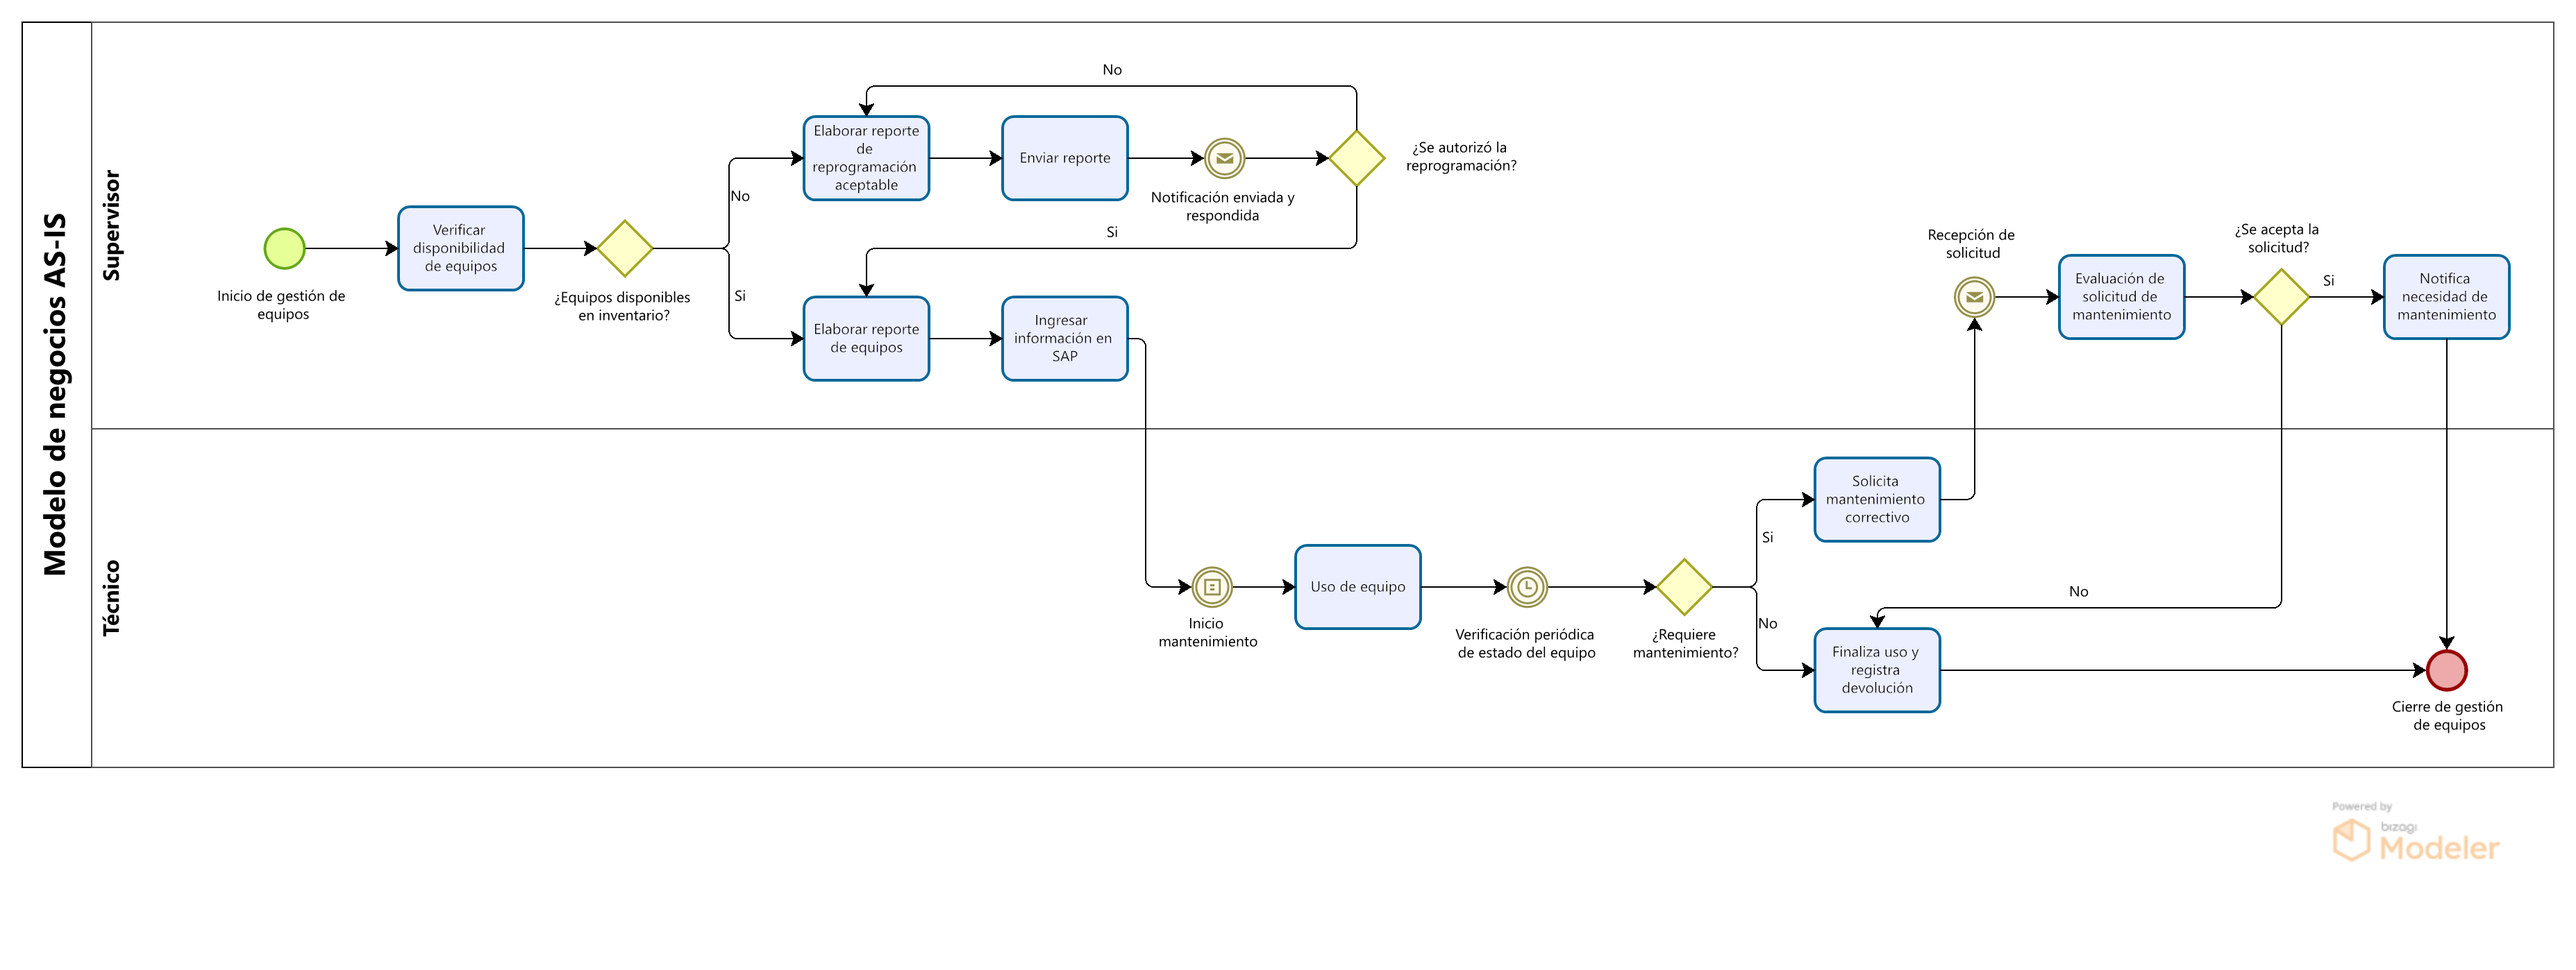
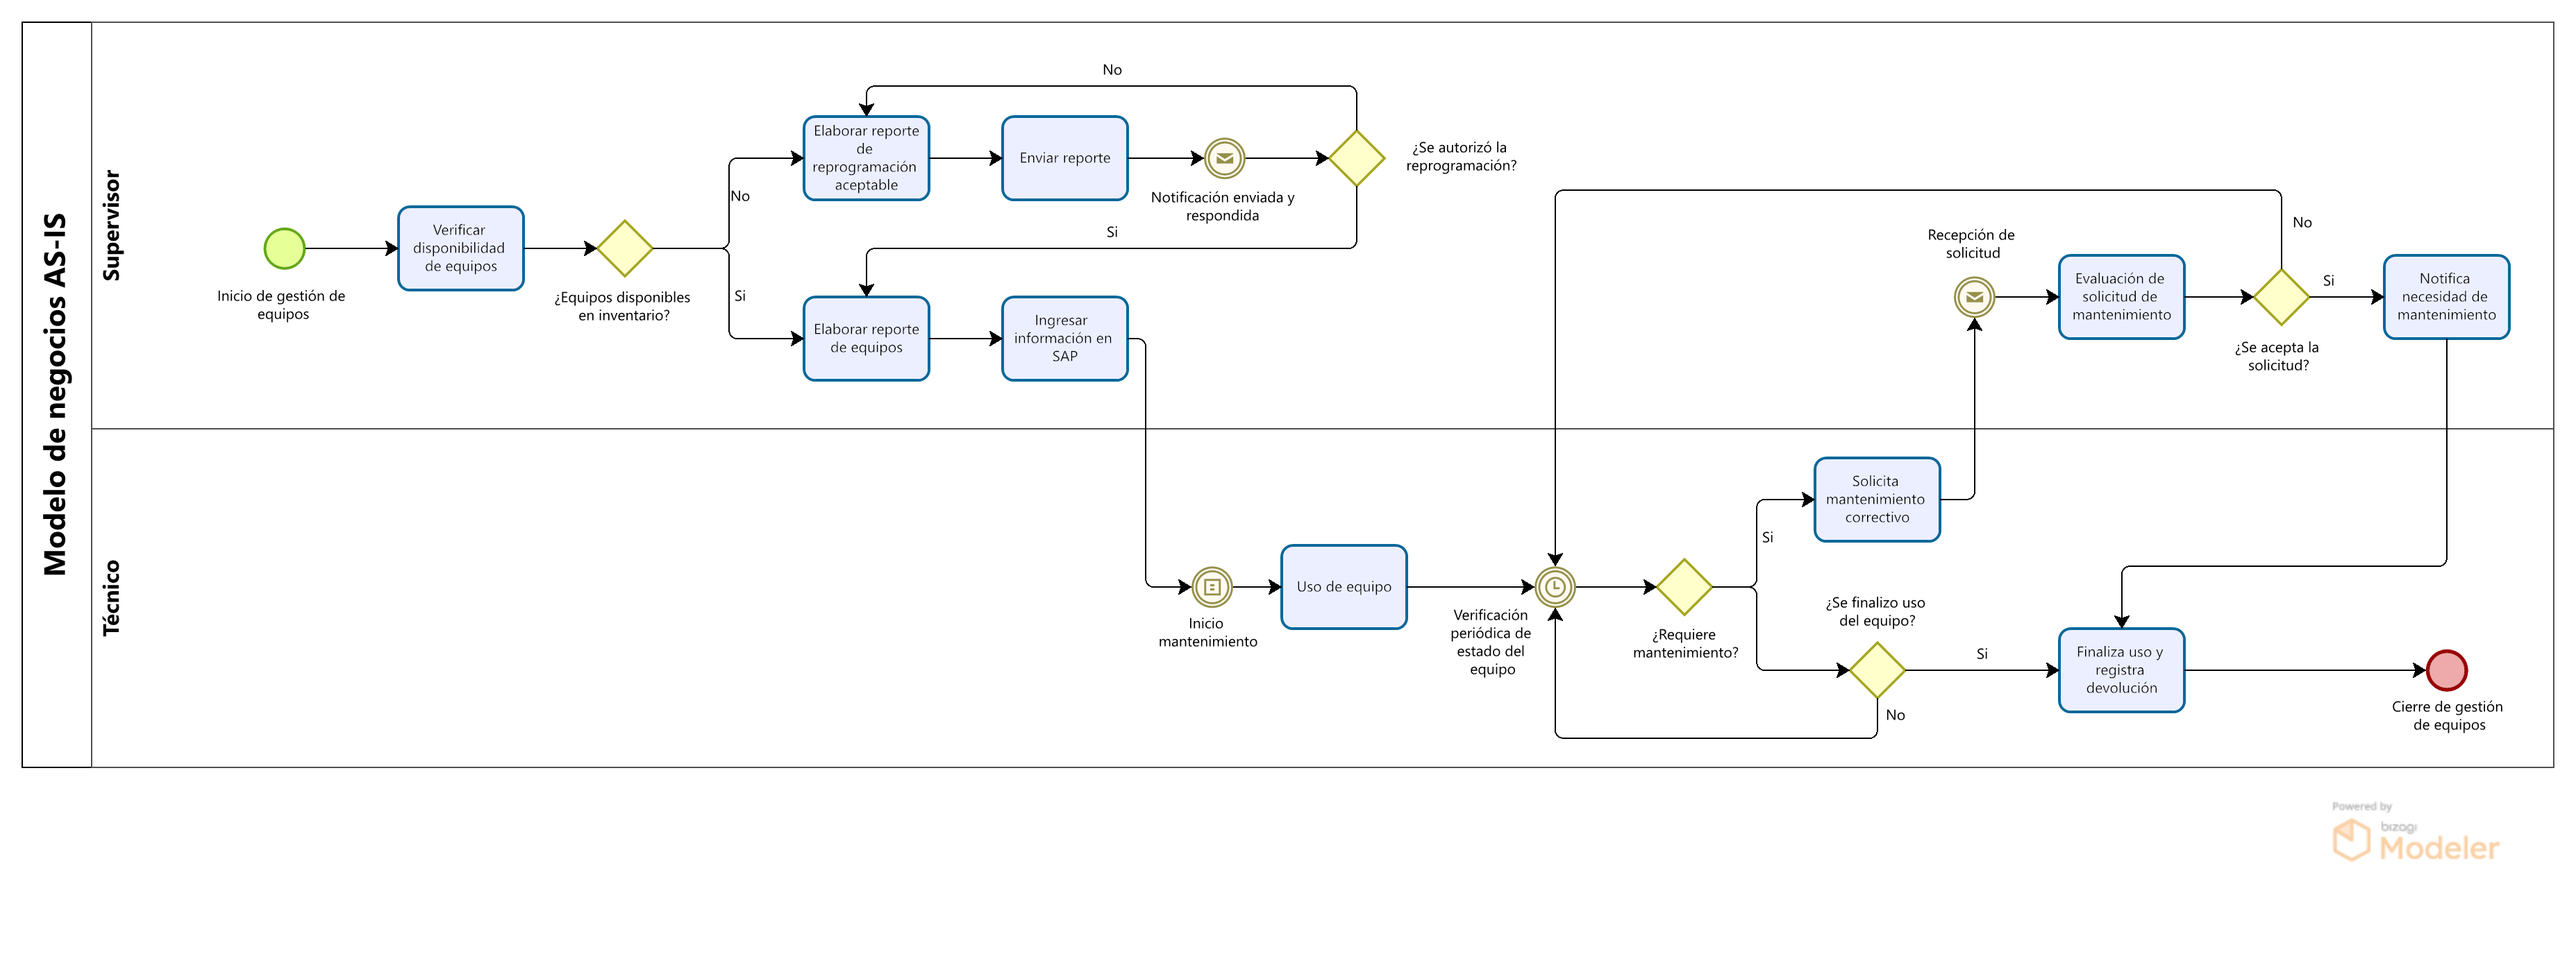
algo

diff --git a/2/2.1/2.1.md b/2/2.1/2.1.md
@@ -459,7 +459,7 @@
       <td>2</td>
       <td>¿Equipos disponibles en inventario?</td>
       <td>Condicional</td>
-      <td>Si los equipos estan disponibles, se procede; si no, se elabora un reporte.</td>
+      <td>Si los equipos estan disponibles, se procede; si no, se elabora un reporte de reprogramación del matenimiento.</td>
       <td>Supervisor</td>
     </tr>
     <tr>
@@ -477,98 +477,112 @@
       <td>Supervisor</td>
     </tr>
     <tr>
+    <tr>
       <td>5</td>
+      <td>Notificación enviada y respondida</td>
+      <td>Evento</td>
+      <td>El supervisor recibe la respuesta de la solicitud de reprogramación.</td>
+      <td>Supervisor</td>
+    </tr>
+      <td>6</td>
       <td>¿Se autoriza la reprogramación?</td>
       <td>Condicional</td>
       <td>Se decide si la reprogramación es autorizada.</td>
       <td>Directiva</td>
     </tr>
     <tr>
-      <td>6</td>
+      <td>7</td>
       <td>Elaborar reporte de equipos</td>
       <td>Actividad</td>
       <td>El supervisor elabora un reporte con los equipos disponibles.</td>
       <td>Supervisor</td>
     </tr>
     <tr>
-      <td>7</td>
+      <td>8</td>
       <td>Ingresar información en SAP</td>
       <td>Actividad</td>
       <td>El supervisor ingresa la información en el sistema SAP para registro.</td>
       <td>Supervisor</td>
     </tr>
     <tr>
-      <td>8</td>
+      <td>9</td>
       <td>Inicio de mantenimiento programado</td>
       <td>Evento</td>
       <td>El supervisor notifica que el mantenimiento ha iniciado.</td>
       <td>---</td>
     </tr>
     <tr>
-      <td>9</td>
+      <td>10</td>
       <td>Uso de equipo</td>
       <td>Actividad</td>
       <td>El técnico utiliza el equipo en la tarea asignada.</td>
       <td>Técnico</td>
     </tr>
     <tr>
-      <td>10</td>
+      <td>11</td>
       <td>Verificación periódica de estado de equipo</td>
       <td>Evento</td>
       <td>Se realiza una verificación periódica del estado del equipo durante su uso.</td>
       <td>Supervisor</td>
     </tr>
     <tr>
-      <td>11</td>
+      <td>12</td>
       <td>¿Requiere mantenimiento?</td>
       <td>Condicional</td>
-      <td>Se evalúa si el equipo requiere mantenimiento adicional.</td>
-      <td>Técnico</td>
-    </tr>
-    <tr>
-      <td>12</td>
-      <td>Solicitar mantenimiento correctivo</td>
-      <td>Actividad</td>
-      <td>Si es necesario, el técnico solicita mantenimiento correctivo.</td>
+      <td>Se verifica si necesita o no un mantemiento</td>
       <td>Técnico</td>
     </tr>
     <tr>
       <td>13</td>
+      <td>Solicitar mantenimiento correctivo</td>
+      <td>Actividad</td>
+      <td>El técnico solicita un mantenimiento correctivo para el equipo.</td>
+      <td>Técnico</td>
+    </tr>
+    <tr>
+      <td>14</td>
       <td>Recepción de solicitud</td>
       <td>Evento</td>
       <td>El supervisor recibe la solicitud de mantenimiento correctivo.</td>
       <td>Supervisor</td>
     </tr>
     <tr>
-      <td>14</td>
+      <td>15</td>
       <td>Evaluación de solicitud de mantenimiento</td>
       <td>Actividad</td>
-      <td>El supervisor evalúa la solicitud enviada por el técnico.</td>
+      <td>El supervisor evalúa si es necesario el mantenimiento al equipo.</td>
       <td>Supervisor</td>
     </tr>
     <tr>
-      <td>15</td>
+      <td>16</td>
       <td>¿Se acepta la solicitud?</td>
       <td>Condicional</td>
       <td>Se decide si la solicitud de mantenimiento es aceptada.</td>
       <td>Supervisor</td>
     </tr>
     <tr>
-      <td>16</td>
+      <td>17</td>
       <td>Notificar necesidad de mantenimiento</td>
       <td>Actividad</td>
       <td>El supervisor notifica si es necesario realizar el mantenimiento.</td>
       <td>Supervisor</td>
     </tr>
     <tr>
-      <td>17</td>
+      <td>18</td>
+      <td>¿Se finalizo uso del equipo?</td>
+      <td>Condicional</td>
+      <td>Se evalua si el tecnivo finalizo o no con el equipo</td>
+      <td>Técnico</td>
+    </tr>
+    <tr>
+      <td>19</td>
       <td>Finalizar uso y registrar devolución</td>
       <td>Actividad</td>
       <td>El técnico finaliza el uso del equipo y registra su devolución al inventario.</td>
       <td>Técnico</td>
     </tr>
     <tr>
-      <td>18</td>
+      <td>20</td>
       <td>Cierre de gestión de equipos</td>
       <td>Evento final</td>
       <td>El supervisor cierra el proceso de gestión de los equipos.</td>

diff --git a/2/2.2/2.2.md b/2/2.2/2.2.md
@@ -443,9 +443,9 @@
     </tr>
     <tr>
       <td>7</td>
-      <td>Verificación predictiva de estado del equipo</td>
+      <td>Verificación del estado del equipo</td>
       <td>Evento</td>
-      <td>Un sistema predictivo monitorea constantemente el estado del equipo.</td>
+      <td>Un sistema monitorea constantemente el estado del equipo.</td>
       <td>Sistema automático</td>
     </tr>
     <tr>
@@ -464,16 +464,16 @@
     </tr>
     <tr>
       <td>10</td>
-      <td>Envía notificación de mantenimiento</td>
-      <td>Evento</td>
+      <td>Notifica necesidad de mantenimiento</td>
+      <td>Actividad</td>
       <td>El sistema envía una notificación automática al técnico.</td>
       <td>Sistema automático</td>
     </tr>
     <tr>
       <td>11</td>
-      <td>Recepción de notificación</td>
-      <td>Evento</td>
-      <td>El técnico recibe de forma correcta la notificación de mantenimiento.</td>
+      <td>¿Se finalizo uso del equipo?</td>
+      <td>Condicional</td>
+      <td>Se evalua si el tecnivo finalizo o no con el equipo</td>
       <td>Técnico</td>
     </tr>
     <tr>
